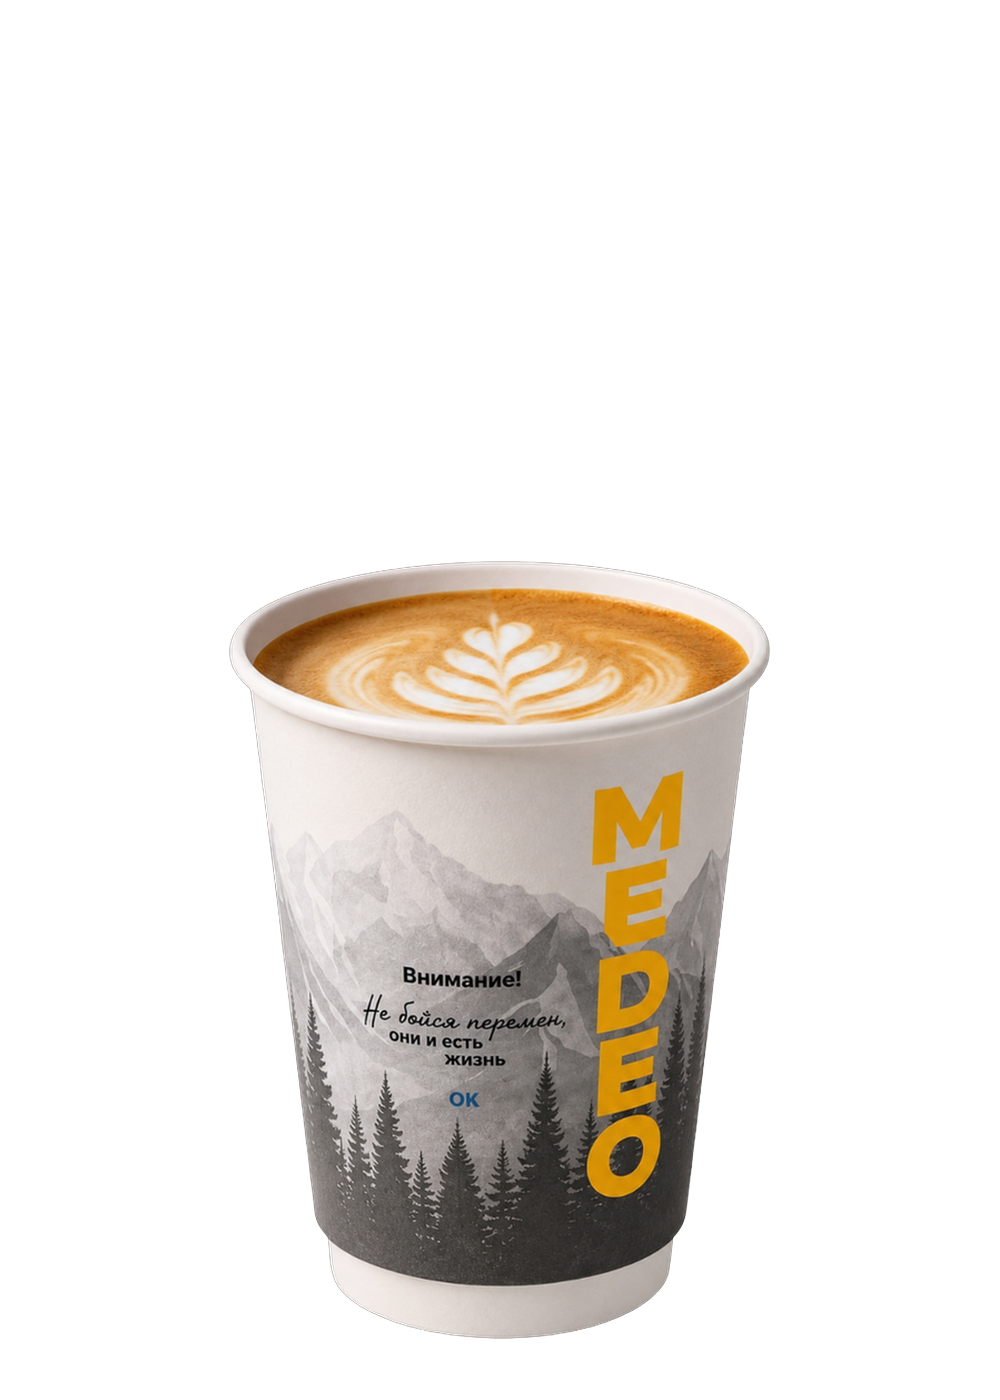
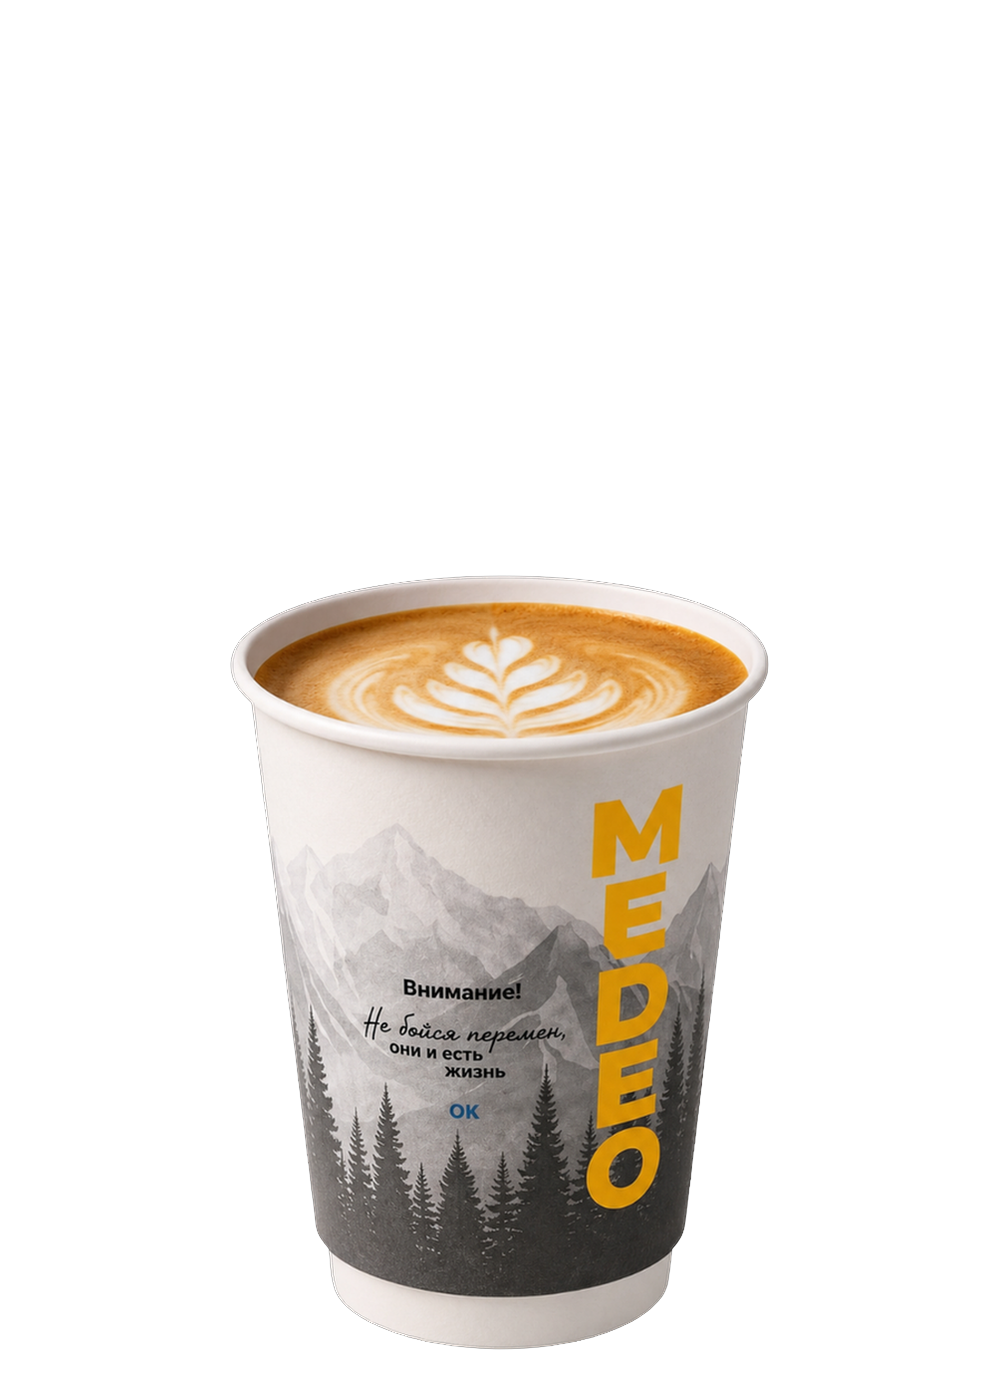
fix: harmonize hero cup image dimensions and scale across local and production

Changed region(s): [[0.217, 0.3993, 0.775, 0.9829], [0.465, 0.6143, 0.527, 0.645]]

diff --git a/src/components/HeroProductStage.tsx b/src/components/HeroProductStage.tsx
@@ -21,7 +21,7 @@ export const HERO_DRINKS = [
     title: "АЙС МОККО СПЕШЕЛТИ",
     subtitle: "Освежающий эспрессо со льдом, шоколадный ганаш и сливочная пенка",
     price: "260 ₽",
-    src: "/images/hero/hero-iced-cup.png",
+    src: "/images/hero/hero-iced-specialty.png",
     alt: "MEDEO Iced Mocha Specialty",
     badge: "NEW COLD BREW",
     tilt: -16,
@@ -63,7 +63,7 @@ export default function HeroProductStage() {
 
   const currentDrink = HERO_DRINKS[currentIndex];
   const activeTilt = isMobile ? 0 : currentDrink.tilt;
-  const baseScale = isMobile ? 1.18 : 1.0;
+  const baseScale = isMobile ? 1.18 * currentDrink.scaleMultiplier : 1.0 * currentDrink.scaleMultiplier;
 
   return (
     <div className="relative w-full max-w-2xl h-[300px] sm:h-[370px] md:h-[450px] lg:h-[580px] flex items-center justify-center select-none overflow-visible">
@@ -72,7 +72,7 @@ export default function HeroProductStage() {
       <div className="absolute inset-0 flex items-center justify-center pointer-events-none z-0 lg:hidden overflow-visible">
         <div className="relative w-[360px] sm:w-[440px] md:w-[520px] aspect-[914/823] opacity-95">
           <Image
-            src="/images/hero/medeo-insta-bg.png"
+            src="/images/hero/medeo insta 2.png"
             alt="MEDEO Brand Art Backdrop"
             fill
             sizes="(max-width: 640px) 360px, 440px"
